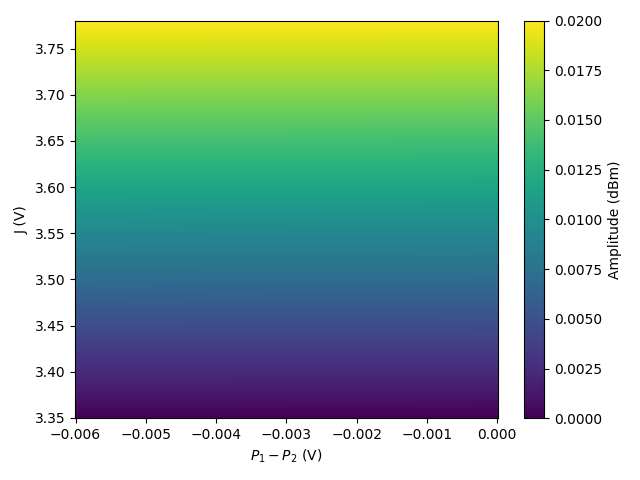
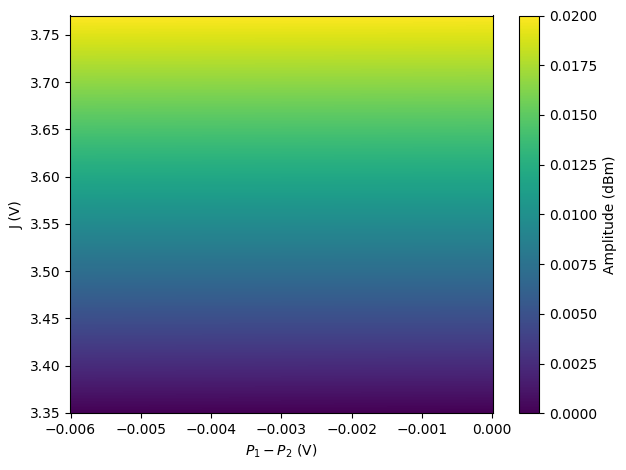
Added RF plots for ramping and power sweeps

Changed region(s): [[0.0, 0.0298, 0.8195, 0.983], [0.8195, 0.0, 1.0, 0.8936]]

diff --git a/september/thesis_plots/thesis_plots.py b/september/thesis_plots/thesis_plots.py
@@ -38,7 +38,7 @@ def save_plot(fname, ftype=None):
     ftype = ftype if ftype is not None else default_ftype
     path = os.path.join('figures', fname + ftype)
     print(f"Saved to {path}")
-    plt.savefig(path)
+    plt.savefig(path, bbox_inches='tight')
 
 
 def plot_amp_phase(X, amp, phase, xlabel="P1 voltage", fname="fname"):
@@ -236,6 +236,70 @@ def fake():
     twod_plot(det, J, R, DETUNING, "J (V)", "Amplitude (dBm)", "psb_fake")
 
 
+def ramping():
+    # Print the ramping rates
+    monty = Monty("rf.decay")
+    result = monty.loadrun("p1_decay.119")
+    data = result["data"]
+    gX = np.linspace(0, 0.0008, 30)[:30-10-5] * 1e3
+    gamp = autodb(data)[5:30-10]
+
+    monty = Monty("rf.decay")
+    result = monty.loadrun("p1_decay.93")
+    data = result["data"]
+    wX = np.linspace(0, 0.002, 30)[:30-10-5] * 1e3
+    wamp = autodb(data)[5:30-10]
+
+    # sync data to align
+    gamp -= gamp[0]
+    wamp -= wamp[0]
+    print(monty.parameters)
+
+    fig, ax = plt.subplots()
+    ax.plot(gX, gamp, ".", color=default_color, label="Ramp = 0.13 mV/s")
+    ax.plot(wX, wamp, ".", label="Ramp = 0 V/s")
+    ax.set_xlabel("Time (ms)")
+    ax.set_ylabel("RF signal (a.b. units)")
+    plt.legend()
+    plt.tight_layout()
+    fig.patch.set_alpha(0.0)  # transparent axes
+    save_plot("ramping")
+
+
+def coulomb_rf_power_sweep():
+    # Plot the power sweep version of coulomb blockade
+    monty = Monty("rf.set_testing")
+    result = monty.loadrun("pwr_set_sweep.15")
+    data = result["data"]
+
+    print(monty.parameters)
+    print(data.keys())
+
+    X = np.linspace(-0.5, 0.5, 401)
+
+    fig, (ax0, ax1) = plt.subplots(nrows=2, sharex=True)
+
+    colors = default_cmap(np.linspace(0, 1, 8))
+
+    for (i, k) in enumerate(data.keys()):
+        if k != "-30":
+            amp = autodb(data[k]) - int(k)
+            phase = autodeg(data[k])
+            ax0.plot(X, amp, "-", color=colors[i], label=k)
+            ax1.plot(X, phase, "-", color=colors[i])
+
+    #ax0.legend(loc='center left', bbox_to_anchor=(1.04, 0.0),
+              #ncol=1, fancybox=True, shadow=False)
+    fig.legend(loc='outside center right', bbox_to_anchor=(1.08, 0.5), title="Power (dBm)")
+
+    ax0.set_ylabel("Amplitude (dBm)")
+    ax1.set_ylabel("Phase (deg)")
+    ax1.set_xlabel(ST)
+    fig.align_ylabels([ax0, ax1])
+    #plt.tight_layout()
+    fig.patch.set_alpha(0.0)  # transparent axes
+    save_plot("rf_coulomb_pwr_sweep")
+
 ## Run everything ##
 
 
@@ -249,6 +313,8 @@ def main():
     coulomb_in_rf()
     impedance_network()
     fake()
+    ramping()
+    coulomb_rf_power_sweep()
 
 
 if __name__ == "__main__":
